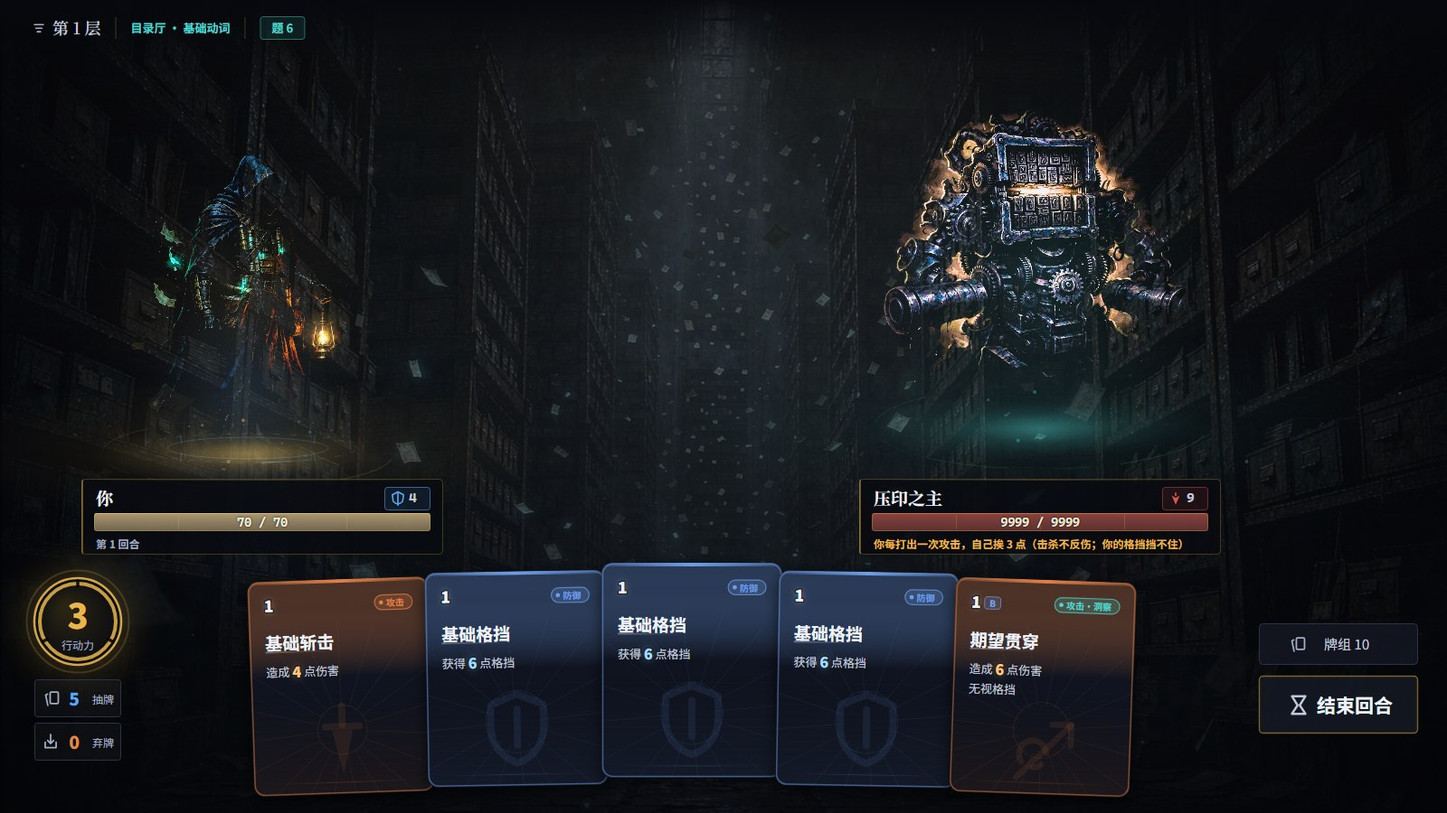
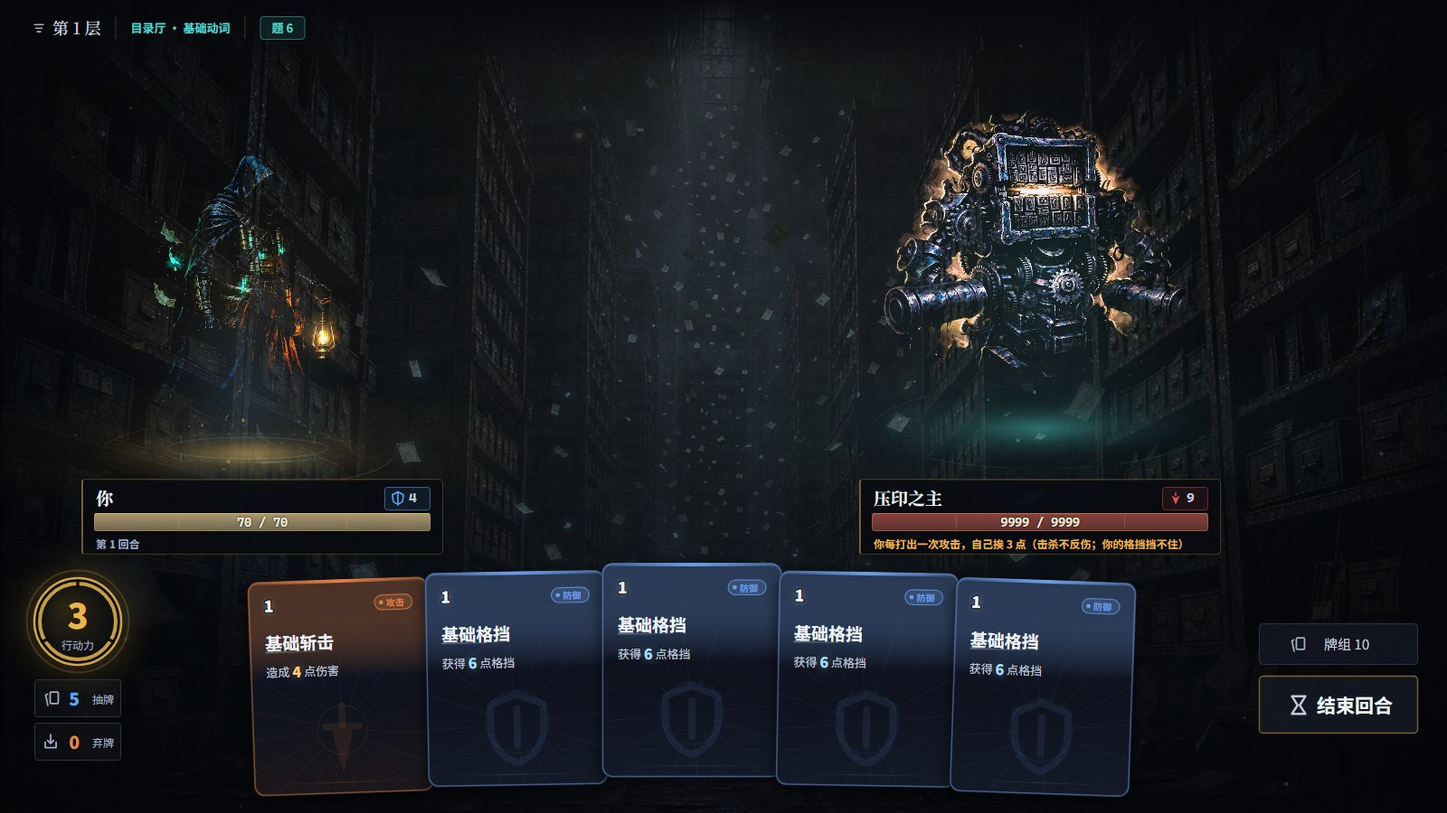
docs: 文档与 24 张配图对齐整数化与删表
- README：六种效果表从「攻 ×1.0 / 挡 ×0.7」「攻 ×0.52 × 2 段」改成「形状」（段数 /
  破不破格挡 / 回不回血 / 抽不抽牌），mods 的例子换成整数四字段并写明不许再加第五个；
  cards 断言六条 → 七条，补上基础牌那一条和「为什么它是第七个」；基线表更新到
  3 / 24 / 45 / 56%，「新手 1%」改成「新手 3%」，「半额算在 ×2 之后」改成「装订线的
  削减算在 ×2 之后」；整个「调度：FSRS-lite」章节删掉，换成「这一局问哪道题」的局内四条。
- DESIGN：BAL.hp / dmg / growth / hpType 都不存在了，换成 FOES 表 + hpStep 台阶 +
  foeHpAdd/foeDmgAdd（默认 0，只给实验用）；血量账里 restPct 62% 换成固定 restHp 45 点，
  并写明为什么换（上限会长到 126，按比例回就跟着长）；场次从「约 40 场」更正为实测
  51.0 场，×40 的估算口径一起改成 ×50；起手牌不再提「记忆状态」。
- AGENTS：存储键三个 → 两个，新增「错题簿」唯一实现点，加成链改成「整手削减」，
  门槛里写明改了增益效果必须补行为断言（文案一致只证明写得对）。
- docs/：24 张实机图全部重拍（npm run shots）。rest.jpg 现在是「回复 45 点生命」，
  screenshot.jpg 里基础格挡是「获得 6 点格挡」—— 6 掉到 3 那次回归修好之后的样子。

Changed region(s): [[0.6562, 0.6844, 0.8125, 0.8711], [0.6562, 0.8711, 0.7812, 0.9956]]

diff --git a/CHANGELOG.md b/CHANGELOG.md
@@ -4,6 +4,184 @@
 
 ## 未发布
 
+### 文档与配图跟上整数化
+
+代码改完之后，文档里还留着两层数值时代的说法，逐条改掉：
+
+- **README 的六种效果表**原来印着 `攻 ×1.0 / 挡 ×0.7`、`攻 ×0.52 × 2 段` ——
+  那是原型带倍率时代的写法。现在表头是「形状」，只写分几段、破不破格挡、回不回血、抽不抽牌；
+  `mods` 的例子从 `{ atkMul: 1.2 }` 换成 `{ times: 3 } / { draw: 2 } / { selfHp: 3 } / { healPer: 2 }`，
+  并写明这四个字段之外不许再加（加一个就是加一个数值来源）。
+- **README 的 `cards` 断言**从"六条"改成七条，补上基础牌那一条，并把"为什么它是第七个"写进去：
+  基础牌不在抽取池里，前六条一条都扫不到它。
+- **DESIGN 的三条机制**重写：`BAL.hp` / `BAL.dmg` / `BAL.growth` / `BAL.hpType` 都不存在了，
+  换成 `FOES` 表 + `hpStep` 台阶 + `foeHpAdd/foeDmgAdd`（实验用，默认 0）；A/S 免答的兑现读数
+  从 2.6 次/局更新到 3.2 次/局（免答合计 86.3 次/局，每场 1.69 次）。
+- **DESIGN 的血量账**里 `restPct 62%` 换成固定 `restHp` 45 点，顺带写明为什么换：
+  上限会长到 126，按比例回就跟着长，"同样的休息"越来越值钱；固定 45 点在 70 上限回 64%、
+  126 上限回 36%，越到后面越紧。场次从"约 40 场"更正为实测 51.0 场，`×40` 的估算口径一起改成 `×50`。
+- **`docs/` 24 张配图全部重拍**：`rest.jpg` 现在是「回复 45 点生命」，`screenshot.jpg` 里
+  基础格挡是「获得 6 点格挡」（就是那个 6→3 回归修好之后的样子）。
+
+门槛：`check` 13 条守卫 / `cards` 七组 / `stage` / `sim`（同种子 3 / 24 / 45 / 56% 复现一致）/
+`smoke` 46 步 / `SMOKE_CPU=6` 46 步 / `shots` 24 张 / `build` 全绿。
+
+### 删掉只写不读的记忆表：书套 / 批注改挂活机制
+
+`library/memory.ts` 维护了一张跨局的 `{ stab, due, reps, lapses, ok, bad }` 表：
+答对翻倍、答错砍 10 点、每开一局 `due -= 1`、每次答题后落盘。**没有任何地方读它。**
+起手不看、出题不看、结算页也不显示 —— 把 `MISS_RULE` 两个字段改成任何数，
+`npm run sim` 的胜率一个小数点都不动。
+
+它写不出玩法，却写得出规则文案：**书套**「第一次答错，稳固度不降」和
+**批注**「第一次答对，稳固度再多翻一倍」。玩家在卡面上读到的是承诺，打起来什么也没有。
+
+删的是整条链：`memory.ts` 整份、`MemEntry` / `MissRule` 类型、`MISS_RULE` 与
+`BAL.marginStab`、`LS_KEY`、`sim` 的 `--fresh` / `--freshrun`（只在清这张表时才存在的开关）、
+`stagecheck` 里的 `parseMem` 断言（换成卡 id 的断言）。顺带删掉 `CardLink.per`：
+从没有一张卡设过它，`Math.round(unit * per)` 永远是 `unit`。
+
+两条增益没有跟着删，改挂到**真会影响玩法**的两处：
+
+- **书套**：这一场第一次答错的那道题不记进错题簿（`G.topicWrong`）。
+  「遗忘」每回合按 `topTopic()` 挑主题加伤，书套改的是它打谁。
+- **批注**：这一场第一道答对时，这张牌多攒 1 次免答（`G.charge`）。
+
+`npm run stage` 新增 10c 断言这两条真的有行为：书套下第一次答错记 0 条、第二次记 1 条，
+没有书套时第一次就记；批注下 2 费牌第一道答对就攒满 2 次，第二道回到 1 次。
+
+同种子（`SIM_SEED=42`）**3 / 25 / 43 / 59% → 3 / 24 / 45 / 56%**：批注从空转变成了真给免答，
+对精通档反而小幅变弱 —— 免答省掉的是答题，也就省掉了答对的退款与抽牌，
+对已经答得准的档位不如自己答。
+
+### 数值改成整数与加减乘：卡面写多少就打多少
+
+原来是两层数值：卡表的底数乘效果原型的倍率（`串联 0.52`、`巩固 2.0`），
+再乘增益、乘半额、取整。一张写「12 攻」的牌，打出去是 6，玩家对不上账。
+
+现在**原型里没有系数**：分几段、破不破格挡、回不回血、抽不抽牌，就是它的全部；
+强弱写在卡表里，`atk` / `blk` 就是打出去的那个数。`planStrike()` 的链路只剩
+底数 → 常驻加成 → 临时加成 → 整手削减。
+
+同一套整数口径推到了所有地方：
+
+- **敌人**：血量 = 模板 + 台阶 × `hpStep`（幕内每 5 层上一档），伤害就是模板值。
+  原来 `模板 × 0.55 × 开方曲线 × 精英倍率` 四个数乘在一起，想加 2 点血得反算改哪个。
+  招式从 `m: 0.75` 改成 `add: -2`。
+- **比例全部换成固定点数**：封蜡「减半」→ 伤害 -8；穿透「砍一半格挡」→ 无视 6 点；
+  装订线「按一半结算」→ 伤害减「费用 × 2」、格挡减「费用 × 5」；
+  复习点「回 62%」→ 固定 45 点；许愿条「以 35% 生命活下来」→ 以 30 点活下来。
+  理由很简单：「+18%」是加 18 个百分点还是乘 1.18，两种读法都成立。
+- **概率**：`roll()` 抽 1–100，`roll() <= 62` 就是六成二；地图配比是
+  38 / 20 / 26 / 16 份。需要「每 5 级领 3 道」这种关系时写成整数乘除，
+  M / N 放进 `BAL`（`qPer` / `qOf`）。
+- **回血按实际伤害**：内化牌每段最多回 `healPer` 点，被格挡吃掉的部分不回。
+  只数「有没有命中」会让 1 点伤害也回满一份。
+
+两道新门槛：`numeric/integer-only` 扫源码里的小数（题面字符串不扫），
+`npm run stage` 的「打出来的数全是整数」扫算出来的结果 —— 109 张牌、35 只怪、
+`BAL` 的每个标量。负向测试都做过：把 `nightCut` 写成 `0.62` 立刻红。
+
+**一处真回归**：原型去掉倍率时，基础格挡从 6 点掉到 3 点（巩固的 ×2 没了，卡表没跟着改）。
+基础牌不在抽取池里，所以七条卡表断言全绿 —— 新手第一幕的存活层数少了近一半。
+`npm run cards` 现在也审基础牌，并断言「基础牌不弱于同费知识卡」。
+
+`SIM_SEED=42` 从 1 / 10 / 22 / 33% 变成 **3 / 24 / 45 / 56%**。卡面、敌人、地图
+逐项比过一致，偏移来自上面那些「减半 → 固定点数」的规则；曲线要不要压回去见 README。
+
+### 47 个增益查一遍：三个自相矛盾，两个过时
+
+查「能力卡牌里有没有矛盾或者过时的机制」。47 个增益里找出来的问题分三类：
+**同一句话在两处被说成两件事**、**文案承诺了代码不做的事**、
+**数值有两个来源**。
+
+自相矛盾三处：
+
+- **装订线**：答错时结算说明写「这一手按一半结算（7 伤害）」，同一手的日志
+  写「效果作废」。日志原来按 `ctx.right` 分支 —— 可"作废"是结论，不是规则，
+  装订线就是那条让它不成立的增益。现在只看这一手**产出了什么**（`dead`），
+  不再看对错。
+- **藏书印**：`card` 写「每击杀一个敌人，回复 3 点生命」，`desc` 写「一场最多
+  触发一次」—— 两句话互相否认。一场本来就只有一个敌人，"每击杀一个"是在承诺
+  一件不会发生的事。合成一句。
+- **橡皮**：`desc` 写「补的格挡挡不了这一下」，会被读成"挡不了敌人这一下"，
+  正好相反 —— 这 3 点就是在敌人回合用的，救不回来的是已经作废的那一手。
+
+文案与条件不符两处：
+
+- **荧光笔**：`desc` 写「这一场第一次答对退 2 点」，那是有借书证时的账。
+  测试开局没有借书证，同一张牌只退 1 点。改成「没有借书证也能退 1 点」。
+- **回形针**：`card` 写「3 费及以上」，`desc` 写「3 费以上」。代码是 `>= 3`。
+  同一个门槛两种口径，`desc` 改成「3 费也算」。
+
+过时机制两处：
+
+- **`BAL.calmFirstTurn` 和口哨共用 `||`**。开关（平衡实验用）一打开就短路，
+  `onceThisFight('whistle')` 根本不执行 —— 玩家拿着口哨打一整局不会触发，
+  也不报错。两者改为各自求值：口哨按自己的条件结账，开关只决定结果。
+  日志也分开：闪开 vs 敌人没出手。
+- **三处数值写死在代码里**：沙漏的 `apMax + 1`、荧光笔的 `markerRefund += 1`、
+  墨水瓶 / 节拍器 / 索引卡的阈值 `3`。搬进 `BAL`（`hourglassAp` / `markerPlus` /
+  `inkAt` / `pulseCards` / `indexHand`）。
+
+架构层改了一条规矩：**增益文案里的数字不许手抄**。`BAL` 改了、`card` 那一句不跟着变，
+卡面就开始长期骗人 —— 不报错、断言看不见，只有玩家对不上账时才发现。现在文案数字
+由 `BAL` 派生进模板串，`stage` 新增「10e2」逐条比对 39 条，改数值不同步文案立刻红
+（负向测试：把 `nightCut` 改成 2，报「对不上：nightlight」）。同一处还查 `desc`
+有没有复述 `card` —— 6 条复述型的 `desc` 删掉（修书胶 / 批注 / 毛笔 / 节拍器 /
+亮油 / 种纸），它们除了"再说一遍"只剩替设计解释。
+
+两处顺手的：`tea` 的 `desc` 手抄了「+14」（`BAL.stageMaxHp` 的副本），改成说真边界
+「加上限的同时回满，这 10 点当场就是血」；`journey/rewards.ts` 在战斗外调 `rulesOf()`、
+而 `journey/events.ts` 调 `rulesStatic()`，同一个语义两个入口，统一到静态层。
+
+验证：`check` 12 条 / `stage` 303 条断言 / `cards` / `sim SIM_SEED=42` → 2 / 10 / 23 / 37%
+（同种子两次一致；用「把 foe/answer/rewards 回退到上一轮」的对照跑出完全相同的数字，
+确认这一轮对数值零影响 —— 上一轮记录的 1 / 13 / 24 / 36% 是调参中途的状态）/
+`smoke` 46 步 / `shots` / `build` 1,816.01 kB 全绿。
+
+### 每张牌都查一遍：卡与卡不打架，加成不再互相吃掉
+
+要求是"检查每张卡片的效果，确保卡片之间不冲突"。查下来有两类问题：
+**同一手牌里两个效果互相覆盖**，和**同章两张牌里有一张永远不该选**。
+
+机制层四个真 bug，全在判定轴和结算次序上，不是数字没调好：
+
+- **续火的 ×2 被 0 伤害的牌静默吃掉**。`commitLink()` 无条件清 `G.nextBoost`，
+  打一张合页或归零点就把加成浪费掉，结算说明还写着"已兑现"。现在由
+  `boostSpent(hits)` 判：这一手真有 `> 0` 的伤害段才兑现，否则留到下一张。
+  留档时说明也改了 —— "留着：这一手没有伤害"。
+- **装订线半额把 ×2 放大成 8 点，比答对还高**。系数原来塞在 `resolveEff()` 里，
+  7 先算成 4（半额取整）、再被 ×2 翻成 8。`resolveEff()` 的 `mult` 参数删掉，
+  `planStrike()` 新增链尾的 `applyScale()`：**底数 → 原型 → 常驻加成 → 临时加成
+  → 整手缩放**，得 `(7×2)×0.5 = 7`。
+- **墨水瓶一回合能抽两次**。`cardsThisTurn % 3 === 0` 让第 6 张再抽一次，
+  卡面写的是"一回合只数一次"。改成 `=== 3`。
+- **种纸判错轴**。按"有没有伤害段"判，于是带伤害的防御牌（长链壁垒）白拿格挡、
+  0 伤的攻击牌（铸甲为刃）不触发。玩家读的是类别，改判 `cardType(card) === 'attack'`。
+
+卡表层，`npm run cards` 新脚本六条断言把它变成机检：同章严格支配 **6 组 → 0 组**、
+同章同指纹 0 组、每章 ≥ 4 张、X 费有产出、无空牌、无死字段。
+
+- `c11 分卷归仓` 挡 10 → 4（原样压过同章的 `c09 秩序守护`）；
+  `c14 自底筑垒` 攻 7 → 13、`c16 页垒纵深` 攻 8 → 12（原来两张几乎一样，现在分两轴）；
+  `c94 双页连斩` 三段总伤 18 → 9（原值压过两段的试锋）；
+  `c96 缓冲页` 1 费 0 伤 7 挡 → **16 挡**，去掉原来的 `blkMul` 补丁，做成纯防御轴；
+  `c27 回旋收势` 攻 3 → 2；`c92 翻页` / `c91 以伤换页` 改成抽牌数不同。
+- **58 张 chain / pierce / drain / focus 卡的死 `blk` 底数归零** —— 这些原型
+  `blk` 恒乘 0，字段从来没被消费过。
+
+一条文案：`nightlight` 夜灯的 `desc` 原来写着"多段攻击的每一下都减"，代码只从总数
+减一次。按 desc 改代码跑出来精通胜率 32% → 37%，判定为偏强，**回退代码、改文案**
+为"先减伤，再算格挡。"，并加断言锁住"一次攻击只减 1 点，多段不叠加"。
+
+顺手修掉地图一个偶发：Boss 固定在中列，复习点那行离它两列时会出现跨两列的边。
+现在 Boss 列跟着复习点行走，`stage` 里加了"连生成 200 张图无跨两列边"的断言。
+
+验证：`check` / `stage` / `cards` / `sim`（`SIM_SEED=42` → 1 / 13 / 24 / 36%，
+原 1 / 10 / 24 / 36%，入门档 +3 在 800 局噪声内）/ `smoke`（46 步）/ `SMOKE_CPU=6`
+/ `shots` / `build` 全绿。
+
 ### 界面不再解释自己：把"作者口吻"从句子里删掉
 
 玩家说"去掉很像 AI 说的话"。清了一遍所有玩家能读到的字，问题不散，是同一种：

diff --git a/AGENTS.md b/AGENTS.md
@@ -20,9 +20,10 @@
   没有 UI 框架，也不需要。devDependencies 只有 vite + typescript 那套。
 - **不为"以后可能的多用户"预留抽象**。单人单进程意味着 `G` 是唯一真相，
   调试接口可以随便读写它 —— 这不是偷懒，是不给一份不会兑现的保险交保费。
-  同理：存档不追求向后兼容，换格式就抬版本号。三个键各管一段：
-  断点 `cognirogue.run.v8`（`journey/save.ts` 的 `SNAP_V`）、跨局掌握度 `cognirogue.v1`
-  （`infra/storage.ts` 的 `LS_KEY`）、章节档案 `cognirogue.stage.v1`（`library/stagemem.ts`）。
+  同理：存档不追求向后兼容，换格式就抬版本号。两个键各管一段：
+  断点 `cognirogue.run.v8`（`journey/save.ts` 的 `SNAP_V`）和章节档案
+  `cognirogue.stage.v1`（`library/stagemem.ts`）。跨局的"卡牌熟练度"表已经删掉 ——
+  它只写不读，旧键 `cognirogue.v1` 留在玩家机器上不再被读，也不用清理。
 - **不加需要说明书才能用的功能**。多一个开关就多一处要维护的假设。
   宁可少一个功能，也不要多一个"配置项"。
 
@@ -44,6 +45,17 @@
 - 卡面 `card` 字段说效果，`desc` 只说 `card` 装不下的**边界与例外**（每场一次、
   只对基础牌、划掉的不含正确答案）。`desc` 复述 `card` 就是在给"再补一句理由"
   留位置 —— 增益面板上那三行字最容易长成设计说明。
+- **数值只用整数，只用加减乘。** 血量、伤害、格挡、回复、抽牌、配比、概率，全是
+  整数；卡面的数就是打出去的数，中间不再乘任何系数。
+  - 比例没有唯一读法：「复习回复 +18%」是加 18 个百分点还是乘 1.18？两种都成立，
+    而玩家只有一种理解。所以复习点改成固定 45 点，修书胶是 +10 点。
+  - 「按比例缩放」一律换成「固定点数增减」：封蜡是伤害 -8（不是减半）、
+    穿透是无视 6 点格挡（不是砍一半）、装订线是伤害减「费用 × 2」。
+  - 概率写成整数份数：`roll() <= 62` 就是六成二；地图配比是 38 / 20 / 26 / 16 份。
+  - 真需要「每 N 级领 M 道」这种比例关系，写成整数乘除并把 M / N 放进 `BAL`
+    （`qPer` / `qOf`），不要在代码里留 `0.6`。
+  - `numeric/integer-only` 扫源码里的小数，`npm run stage` 的「打出来的数全是整数」
+    扫算出来的小数 —— 两道一起，才挡得住「Math.round 被顺手删掉」这种回归。
 
 ## 架构不变量
 
@@ -62,7 +74,13 @@
 | 跨 tick 时钟 | `core/infra/schedule.ts`（无头模拟换同步调度器） |
 | 生命 / 格挡 / 行动力写入 | `core/infra/write.ts` |
 | 效果原型 → 每段数值 | `core/model/effects.ts` 定义、`core/combat/strike.ts` 唯一调用 |
+| 卡面数值的最终值 | `core/combat/strike.ts` 的 `planStrike()`：卡面、答题面板、结算全读它，别处不许自己乘系数 |
 | 一次出手的状态写入与事件 | `core/combat/settlement.ts`（`Plan` + 唯一执行器） |
+| 两张牌是不是"同一张" | `tools/cards.ts`：同章同费同效果不允许只在数字上强弱，也不允许留从没被消费的字段；基础牌也在审计范围内 |
+| 数值是不是整数 | 无落点：`numeric/integer-only` 扫字面量，`stagecheck` 的 10e3 扫算出来的结果 |
+| 增益的数值与卡面 | `model/data.ts` 的 `BAL`：卡面文案里的数字必须能从它派生，`npm run stage` 逐条比对 |
+| 一个增益是否只响一次 | `cards/powers.ts` 的 `onceThisFight/Stage/Run`（消费）与 `canOnceStage`（只查询） |
+| 错题簿（哪个主题"最弱"） | `infra/state.ts` 的 `G.topicWrong` + `topTopic()`：书套决定记不记、遗忘读它挑主题，别处不许自己数 |
 | **常驻规则数字** | `core/cards/powers.ts` 的 `rulesStatic()`：界面要显示「回复多少 / 抽几张 / 底数加几」，一律读它 |
 | 战斗中的瞬时规则 | `rulesOf()`（在 `rulesStatic()` 上叠加首回合、手牌数、敌人类型） |
 | 面板内部字段 | `core/infra/state.ts` 的 `panelOf(k)`（别写 `as unknown as { view: ... }`） |
@@ -75,6 +93,38 @@
 | 多选一卡片的视觉 | `gfx/ui.ts` 的 `choiceCard()`：序号、徽记、标题、说明槽位、底部事实行都在这里；场景只给数据和命中矩形 |
 | 平台适配（DOM / localStorage） | `core/infra/storage.ts` |
 | 题库的位置依赖 | 数据属性 `Question.noShuffle`，`core/library/parse.ts` 解析期校验 |
+
+**为什么加成的顺序要写死**：`planStrike()` 里只有一条链 ——
+**底数 → 效果形状 → 常驻加成 → 临时加成（续火 ×2）→ 整手削减（装订线）**。
+底数是纯读（`liveStatOf()`），削减放最后，因为它说的是玩家最后看到并打出去的那个数，
+不是中间值。把削减塞进 `resolveEff()` 就会先减再被 ×2 放大：7 伤减 2 本该是 5，
+插在中间会算出 10，比答对还高。**任何新的一步都从链尾接**，不许回头改形状层。
+
+**为什么加成只认"打出伤害"**：`commitLink(id, spent)` 的 `spent` 由 `boostSpent(hits)`
+决定 —— 有没有 `> 0` 的伤害段。之前无条件清 `G.nextBoost`，打一张合页或归零点就把
+续火的 ×2 静默吃掉，说明还写着「已兑现」。这类错只有玩家能撞见，所以要断言。
+
+**为什么 `rulesOf()` 之外还要有 `onceThisFight()`**：「本场一次」的消费最好在结算里发生，
+查询（`canOnceStage()`）不许顺带扣账。混杂之后，同一张牌会在帮助页被"用过一次"。
+
+**为什么增益的数字不能手抄在文案里**：`card` 写「退回 2 点」、`BAL` 改成 3，卡面就开始
+长期骗人 —— 不报错、断言看不见，只有玩家对不上账时才发现。现在文案里的数字全部由
+`BAL` 派生进模板串，`stage` 逐条比对：改数值不同步文案立刻红。
+同理，「第 3 张」这种**阈值**也是规则：墨水瓶的 `inkAt`、节拍器的 `pulseCards`、
+索引卡的 `indexHand` 各有一个字段，不许在结算里写 `=== 3`。
+
+**为什么增益的 `desc` 只写边界**：复述 `card` 的第二遍没有内容可装，最后一定长成
+「这一场第一次答对退 2 点」这种替设计解释的句子，而且它会把条件写死成无条件
+（没有借书证时只退 1 点）。`stage` 有一条断言直接比 `card` 与 `desc` 的前缀。
+
+**为什么"答错"不能直接推出"效果作废"**：装订线让这一手答错也出一半伤害。
+日志按 `ctx.right` 分支，就会在结算说明写「按一半结算（7 伤害）」的同时，
+同一手写「效果作废」—— 两个面板说两件相反的事。判定只能读这一手**产出了什么**
+（`dead`），不能读对错。
+
+**为什么一个全局开关不能和一张增益共用 `||`**：`calmFirstTurn || onceThisFight('whistle')`
+在开关打开时短路，口哨永远不结账、永远无效，还不报错。两个机制要各自求值：
+增益按自己的条件消费，开关只决定结果。
 
 **为什么 `rulesStatic()` 要和 `rulesOf()` 分开**：`rulesOf()` 会读 `G.turn` /
 `G.hand` / `G.enemy`，在战斗之外调用（帮助页、复习面板、结算报告）会带出那里没有
@@ -106,6 +156,18 @@
 
 - 改完至少 `npm run check`（tsc + 依赖方向守卫）和 `npm run stage`（过幕 / 事件 /
   存档的结构断言，不到一秒）。
+- 动过卡表（`model/data.ts` / `cards/catalog.ts` / `cards/basics.ts`）再跑 `npm run cards`：
+  七组断言 —— 无空牌、无死字段、同章无同指纹、同章没有严格支配、X 费有产出、
+  每章 ≥ 4 张、**基础牌弱于同费知识卡**。基础牌不在抽取池里，所以特别容易漏：
+  效果原型去掉倍率那次，基础格挡从 6 点掉到 3 点，新手第一幕的存活层数少了一半，
+  其余六条全绿。
+  「严格支配」指同章同费同效果、每一项都不差且至少一项更好 —— 这种牌出现在
+  同一份奖励里就是永远不该选的那张。数值改动都在这一步暴露，别靠人眼比表。
+- 动过增益（`POWERS` / `BAL` 里任何一项）`npm run stage` 会逐条比对卡面数字，
+  还会查 `desc` 有没有复述 `card`。改了数值不同步文案，这里红。
+  **改了增益的效果，得再补一条行为断言**：文案一致只证明它"写得对"，不证明它
+  "真的会发生" —— 书套 / 批注曾经挂在一张只写不读的表上，卡面写着规则、打起来
+  什么也没发生，而所有文案断言全绿。`stage` 的 10c 现在是这两条的唯一证据。
 - 动过战斗逻辑再跑 `npm run sim`：无头几千局，断言"胜率必须随水平单调上升"。
   四档水平都参与这条断言，只是底部低（不补垫子、不补抽，新手档基本通关不了）。
   **还要看它多打的那行「免答」**：`A/S 档` 低于 0.2 次/局就说明分级免答是空转的

diff --git a/DESIGN.md b/DESIGN.md
@@ -27,15 +27,16 @@
 | 格挡 | 只保一回合 | 所以格挡是"分配"而不是"囤积"，慷慨的格挡牌必须贵 |
 
 一场战斗的形状：**约 4 回合**（`npm run sim` 实测 4.2 回合/场；普通怪更短，
-精英与 Boss 靠 `BAL.hpType` 拖得更长）。一整局：**5 幕 / 100 层 / 约 40 场**。
+精英与 Boss 的 `hp` 在 `FOES` 表里直接写高，靠血量拖长，不乘系数）。
+一整局：**5 幕 / 100 层 / 约 50 场**（实测 51.0 场，熟练档平均走到第 75 层）。
 
 这两个数量级决定了两件事，而且它们方向相反：
 
 - **战斗之内**，牌组循环一圈就是一回合，所以任何"投资 → 收割"的机制只有 1–2 回合的窗口。
   在设计跨回合机制之前，先问它在这个长度里来不来得及兑现。
-- **战斗之间**，一局是四十多场、两层血量（上限与治疗）的长期账。单场里的每个小便宜
-  都会乘以 40 —— 所以"每场多掉 3 点血"这种听起来无所谓的数字，在 100 层里就是 120 点，
-  等于两条命。任何按场生效的代价都必须按"×40"来估。
+- **战斗之间**，一局是五十来场、两层血量（上限与治疗）的长期账。单场里的每个小便宜
+  都会乘以 50 —— 所以"每场多掉 3 点血"这种听起来无所谓的数字，在 100 层里就是 150 点，
+  比两条命还多。任何按场生效的代价都必须按"×50"来估。
 
 **幕是玩法单位，章节是学习单位，两者不要混。** 一幕 20 层负责换图、换怪、换机制；
 一章负责"这一段学什么"。每一幕从来源题库切出自己那一章的 BANK，卡面只决定
@@ -111,7 +112,7 @@
 | 测试 | 无 | 0 | 退款和防御都要靠路上捡，最高难度 |
 
 起手 10 张：4 张基础斩击 + 4 张基础格挡（`cards/basics.ts`），加 2 张从知识卡池随机抽的卡
-（`cards/starter.ts`），不随模式或记忆状态变化。基础牌**无法从游戏中获取**，
+（`cards/starter.ts`），不随模式变化。基础牌**无法从游戏中获取**，
 但可以精炼、也可以遗忘 —— "保底"说的是"你至少还有牌能打"，不是"这张牌不能动"。
 战后奖励与事件都不会产出斩击和格挡；唯一的硬底线是牌组不能删到 4 张以下。
 模式选择因此只决定开局能力，玩家不需要在选模式时猜自己会拿到哪十张牌。
@@ -148,18 +149,20 @@
 4. **答对抽牌真的被接上**：双面镜在场时，每回合答对触发不超过 `BAL.answerDrawCap` 次；
    全局平均 ≥ 每场 0.5 次。它现在是"一张牌给的规则"，不再是人人白吃，
   所以门槛从"每场 3 次"降到这个量级 —— 测的是构筑选择有没有兑现，不是人人有份的补贴。
-5. **卡面数值守恒**：把 `BAL.hp` / `BAL.dmg` 之外的补偿项全部设成中性值，曲线不应大幅塌陷。
-   `BAL.hp` 现在是 **0.55**（起手 8 张基础牌之后重扫的当前基线）：它补偿的是
-   "每回合能答的题少了一半"，不是给玩家发数值；`BAL.dmg` 保持 1.24，因为"挡不挡得住"
-   那条线没有被牌组改动影响。
-   如果必须靠补偿项才站得住，说明有隐藏倍率没被找出来。
-6. **塔越高，怪越厚**：`BAL.growth` 是一条以全局层号（1..100）为自变量的连续曲线，
-   `tools/stagecheck.ts` 直接断言第 100 层的模板血量 ≥ 第 1 层的 1.6 倍。
+5. **卡面数值守恒**：现在没有"补偿系数"这一层可调了 —— 敌人强度是 `FOES` 表里的两格
+   （`hp` / `dmg`），`BAL.foeHpAdd` / `foeDmgAdd` 默认都是 **0**，只给 `--hp=6` 这类实验用。
+   想验"曲线不是暗补撑起来的"，把这两个偏移归零跑 `npm run sim`：胜率不该动。
+   动了就说明有地方在偷偷折算。如果必须靠补偿项才站得住，说明有隐藏倍率没被找出来。
+6. **塔越高，怪越厚**：幕内每 5 层上一个台阶（`FOES[].hpStep`，第 6 / 11 / 16 层各 +1 档），
+   不是连续曲线。`tools/stagecheck.ts` 断言的是台阶本身：同档内不变、跨档整 +`hpStep`、
+   幕末必须比幕初厚（杂兵 28 → 37，每档 +3）。改成查表是因为玩家能自己算出
+   "再走两层它会变厚"，也能核对厚了几点 —— 连续曲线做不到这件事，还会随取整漂。
 7. **A/S 免答必须真的有兑现机会**：`npm run sim` 打「免答」那一行，A/S 档低于 0.2 次/局
    就说明这条线是空的。早期 0.20 血线时它只有 0.1 次/局 —— 因为普通战斗 2.0 回合，
-   一张牌一场最多被打出两次。**修法不是整体加血**，而是给精英 / Boss 一条独立倍率
-   `BAL.hpType`（当前 1.10）：硬仗变长、普通战斗不动。固定种子 800 局是 A/S 2.6 次/局、
-   约 1.19 次/场，整体曲线 1% / 9% / 19% / 26%（`SIM_SEED=42`，见 README 基线表）。
+   一张牌一场最多被打出两次。**修法不是整体加血**，而是让精英 / Boss 的血量直接写高
+   （同一个 `FOES` 表，不再乘 `hpType`）：硬仗变长、普通战斗不动。
+   固定种子 800 局现在是免答 86.3 次/局（每场 1.69 次；其中 A/S 档 3.2 次/局），
+   整体曲线 3% / 24% / 45% / 56%（`SIM_SEED=42`，见 README 基线表）。
 
 ## 七、已经删掉的东西（以及为什么不能加回来）
 
@@ -180,7 +183,7 @@
 
 ### 为什么按幕分
 
-一局四十多场，玩家会迷路。层号只回答"爬了多远"，不回答"我在哪、这一带是什么规矩"。
+一局五十来场，玩家会迷路。层号只回答"爬了多远"，不回答"我在哪、这一带是什么规矩"。
 幕提供三样东西，一层一层加深：
 
 1. **一个可记住的地名** —— "我在第三幕"比"我在第 47 层"更像一句人话；
@@ -208,11 +211,13 @@
 
 这是这次改动里唯一一处必须靠数值算清楚的地方，也是最容易做崩的地方：
 
-- 一局约 40 场战斗，按每场净掉 5–8 点估算，整局要还数百点血；精英与 Boss 的峰值还要另算。
-  （精英 / Boss 的独立血线倍率会把这两类节点拖长，峰值那部分随之上抬。）
-- 回血只来自三处：复习点（`restPct` 62% 上限）、幕末回满、内化牌。
-- 所以复习点从"一局两三个"变成"一幕四五个"，回复量从 32% 提到 62%。
+- 一局约 50 场战斗，按每场净掉 5–8 点估算，整局要还数百点血；精英与 Boss 的峰值还要另算。
+  （这两类节点的 `hp` 在 `FOES` 表里直接写高，所以峰值那部分随之上抬。）
+- 回血只来自三处：复习点（固定 `restHp` 45 点）、幕末回满、内化牌。
+- 所以复习点从"一局两三个"变成"一幕四五个"，回复量从按比例的 32% 改成固定 45 点。
   这两条不是"更善良"，是**同一个总账换了分母** —— 8 层时 32% 够用，100 层时不够。
+  换固定点数是另一半原因：上限会长到 126，按比例回就跟着长，"同样的休息"越来越值钱；
+  固定 45 点在 70 上限时回 64%、在 126 上限时回 36%，越到后面越显紧 —— 这正是要的走向。
 
 顺带定下一条设计红线：敌人的**伤害**不能按层号线性放大。玩家一侧的格挡是常数
 （一张巩固牌 6–8 点，精炼底数 +3），敌人伤害翻倍，等于让"挡"这个动作在中后期直接失效。
